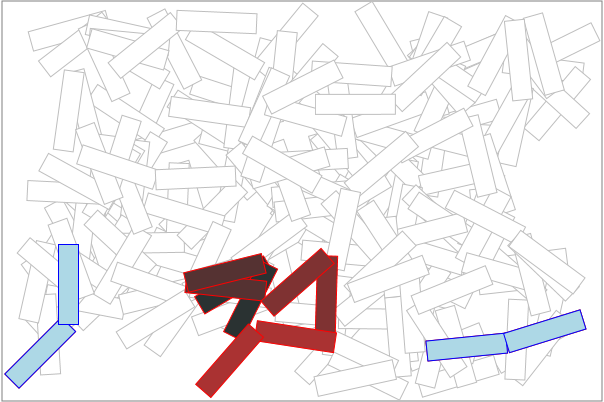
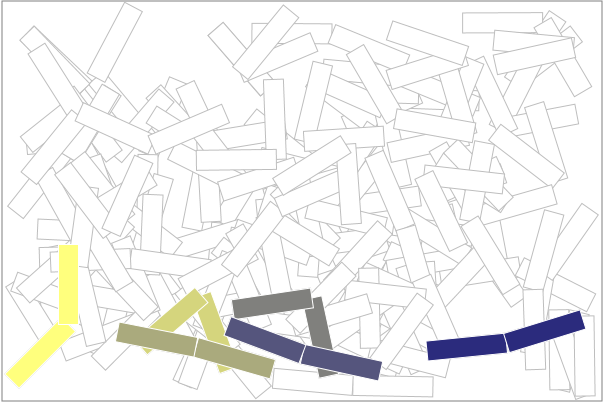
hw3 anime 60%

diff --git a/hw3/assignment_robots/src/assignment_robots/ArmDriver.java b/hw3/assignment_robots/src/assignment_robots/ArmDriver.java
@@ -30,7 +30,7 @@ public class ArmDriver extends Application {
 	// plot a ArmRobot;
 	public void plotArmRobot(Group g, Double[] config) {
 		ArmRobot arm = new ArmRobot(config);
-		System.out.println("plot arm" + arm);
+		//System.out.println("plot arm" + arm);
 		double[][] current;
 		Double[] to_add;
 		Polygon p;
@@ -57,7 +57,7 @@ public class ArmDriver extends Application {
 	// plot a ArmRobot;
 	public void plotArmRobotPath(Group g, Double[] config, int length, int idx) {
 		ArmRobot arm = new ArmRobot(config);
-		System.out.println("plot arm" + arm);
+		//System.out.println("plot arm" + arm);
 		double[][] current;
 		Double[] to_add;
 		Polygon p;
@@ -74,8 +74,8 @@ public class ArmDriver extends Application {
 			}
 			p = new Polygon();
 			p.getPoints().addAll(to_add);
-			p.setStroke(Color.RED);
-			p.setFill(Color.rgb(255 - 255 * idx / length, 50, 50));
+			p.setStroke(Color.WHITE);
+			p.setFill(Color.rgb(255 - 255 * idx / length, 255 - 255 * idx / length, 125));
 			g.getChildren().add(p);
 		}
 
@@ -99,7 +99,7 @@ public class ArmDriver extends Application {
 			}
 			p = new Polygon();
 			p.getPoints().addAll(to_add);
-			p.setStroke(Color.rgb(190, 190, 190));
+			p.setStroke(Color.rgb(200, 200, 200));
 			p.setFill(Color.WHITE);
 			g.getChildren().add(p);
 		}
@@ -212,7 +212,7 @@ public class ArmDriver extends Application {
 		// plot robot arm
 
 		List<SearchNode> solutionPath = null;
-		RoadMapProblem rmp = new RoadMapProblem(w, config1, config2, 100, 10);
+		RoadMapProblem rmp = new RoadMapProblem(w, config1, config2, 200, 10);
 		solutionPath = rmp.astarSearch();
 		
 		// System.out.println("size: " + rmp.samplings.size());
@@ -228,14 +228,14 @@ public class ArmDriver extends Application {
 			int i = 0;
 			for (SearchNode sn : solutionPath) {
 				RoadMapNode thissn = (RoadMapNode) sn;
-				System.out.println("path: " + thissn.arm);
+				//System.out.println("path: " + thissn.arm);
 				plotArmRobotPath(g, thissn.arm.config, solutionPath.size(), i++);
 			}
 		}
 
 
-		plotArmRobot(g, config2);
-		plotArmRobot(g, config1);
+/*		plotArmRobot(g, config2);
+		plotArmRobot(g, config1);*/
 
 		scene.setRoot(g);
 		primaryStage.show();
